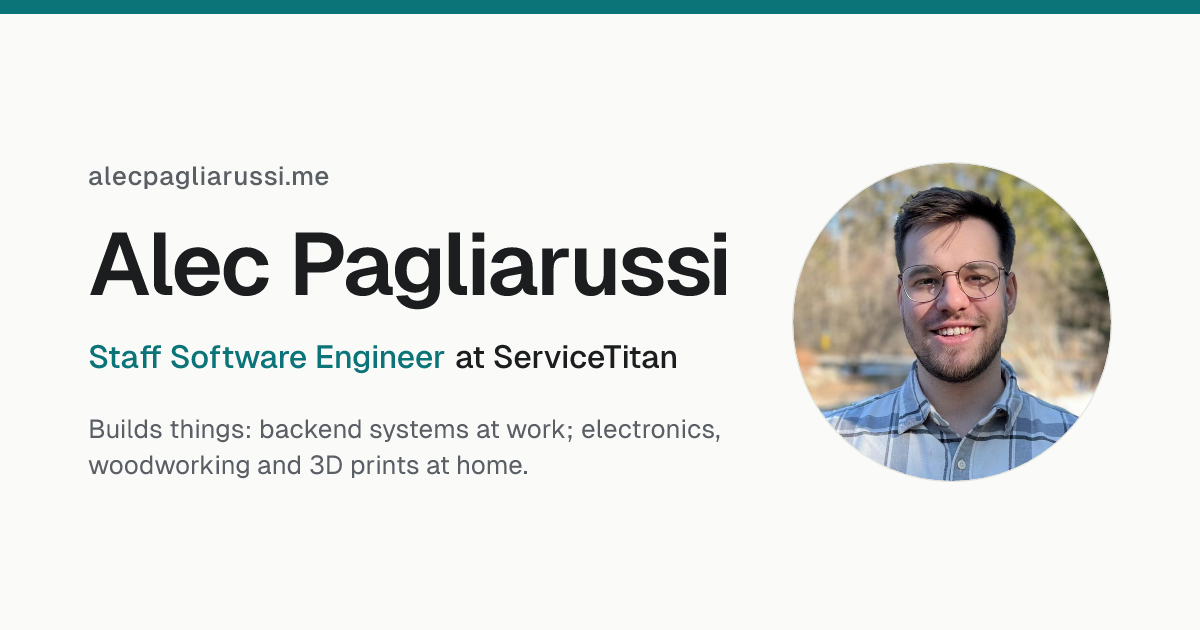
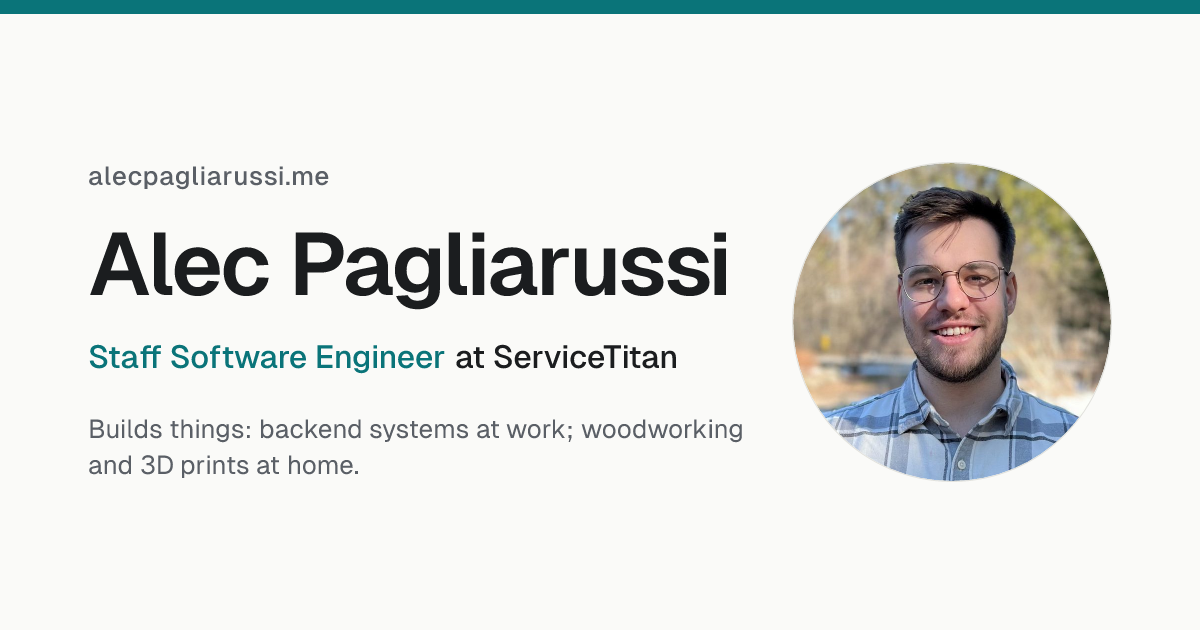
content: treat electronics as origin story; remove LICENSE.md
Electronics and robotics are where it started, not a current hobby, so
they come out of the hero line, meta description and OG card. LICENSE.md
named the old Gatsby template's author and is removed at Alec's request.

Changed region(s): [[0.0617, 0.7238, 0.4317, 0.754], [0.4625, 0.6635, 0.6167, 0.6937]]

diff --git a/src/content/profile.md b/src/content/profile.md
@@ -2,9 +2,9 @@
 name: Alec Pagliarussi
 jobTitle: Staff Software Engineer
 employer: ServiceTitan
-tagline: "I like building things — software for a living, and electronics, woodworking and 3D prints for the fun of it."
+tagline: "I like building things — software for a living, and woodworking and 3D prints for the fun of it."
 location: Ontario, Canada
-description: "Staff Software Engineer at ServiceTitan who likes building things: backend systems at work, and electronics, woodworking and 3D prints at home."
+description: "Staff Software Engineer at ServiceTitan who likes building things: backend systems at work, and woodworking and 3D prints at home."
 resume: /resume.pdf
 email: alec.paglia@gmail.com
 links:

diff --git a/README.md b/README.md
@@ -77,4 +77,4 @@ have aged out.
 
 ## Licence
 
-See `LICENSE.md` for the code. Geist is licensed under the SIL Open Font License (`public/fonts/Geist-OFL.txt`).
+Geist is licensed under the SIL Open Font License (`public/fonts/Geist-OFL.txt`).
